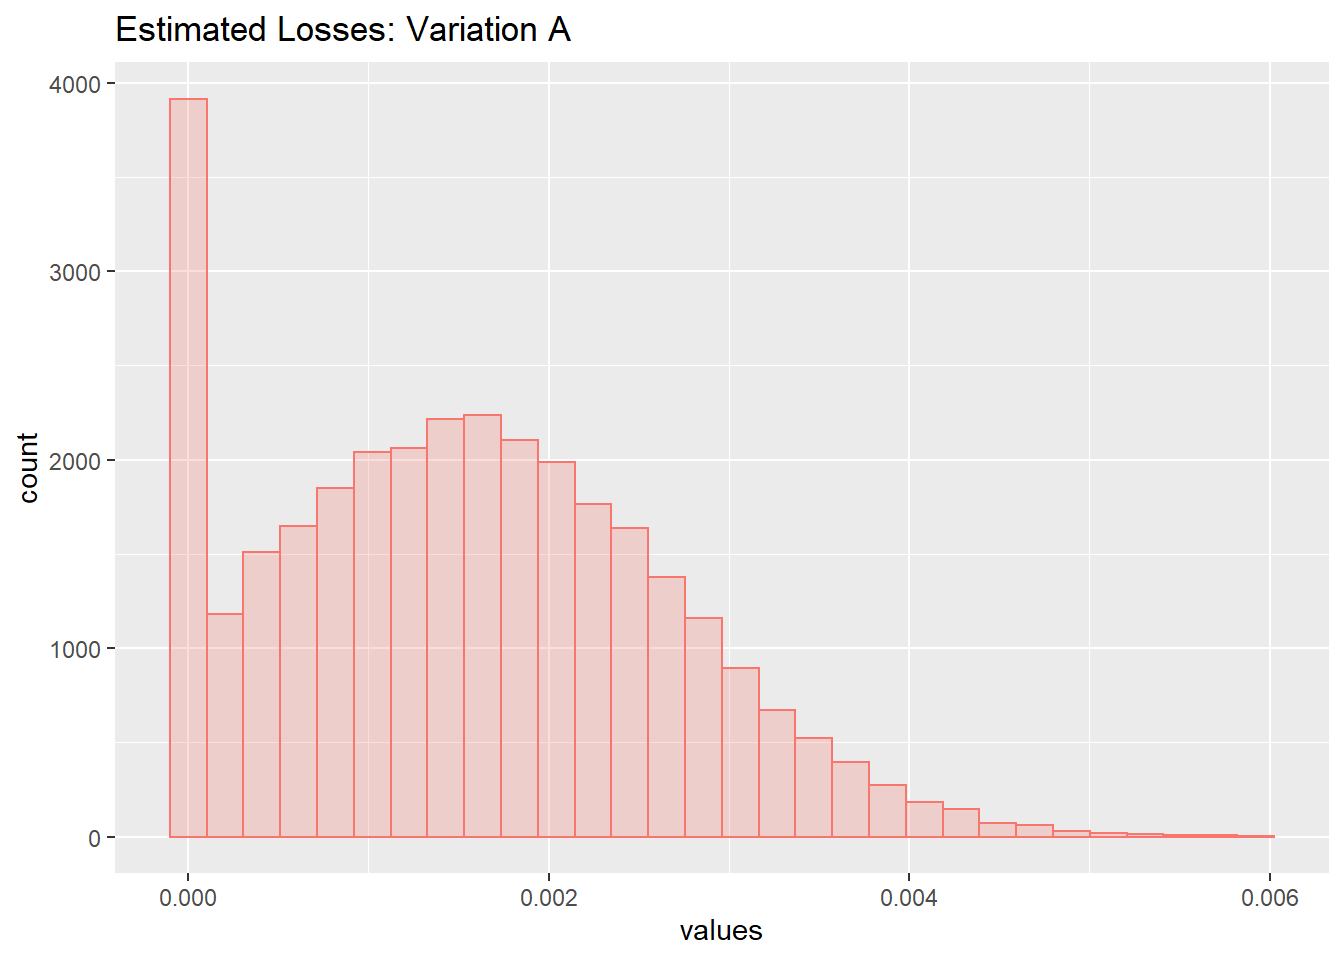
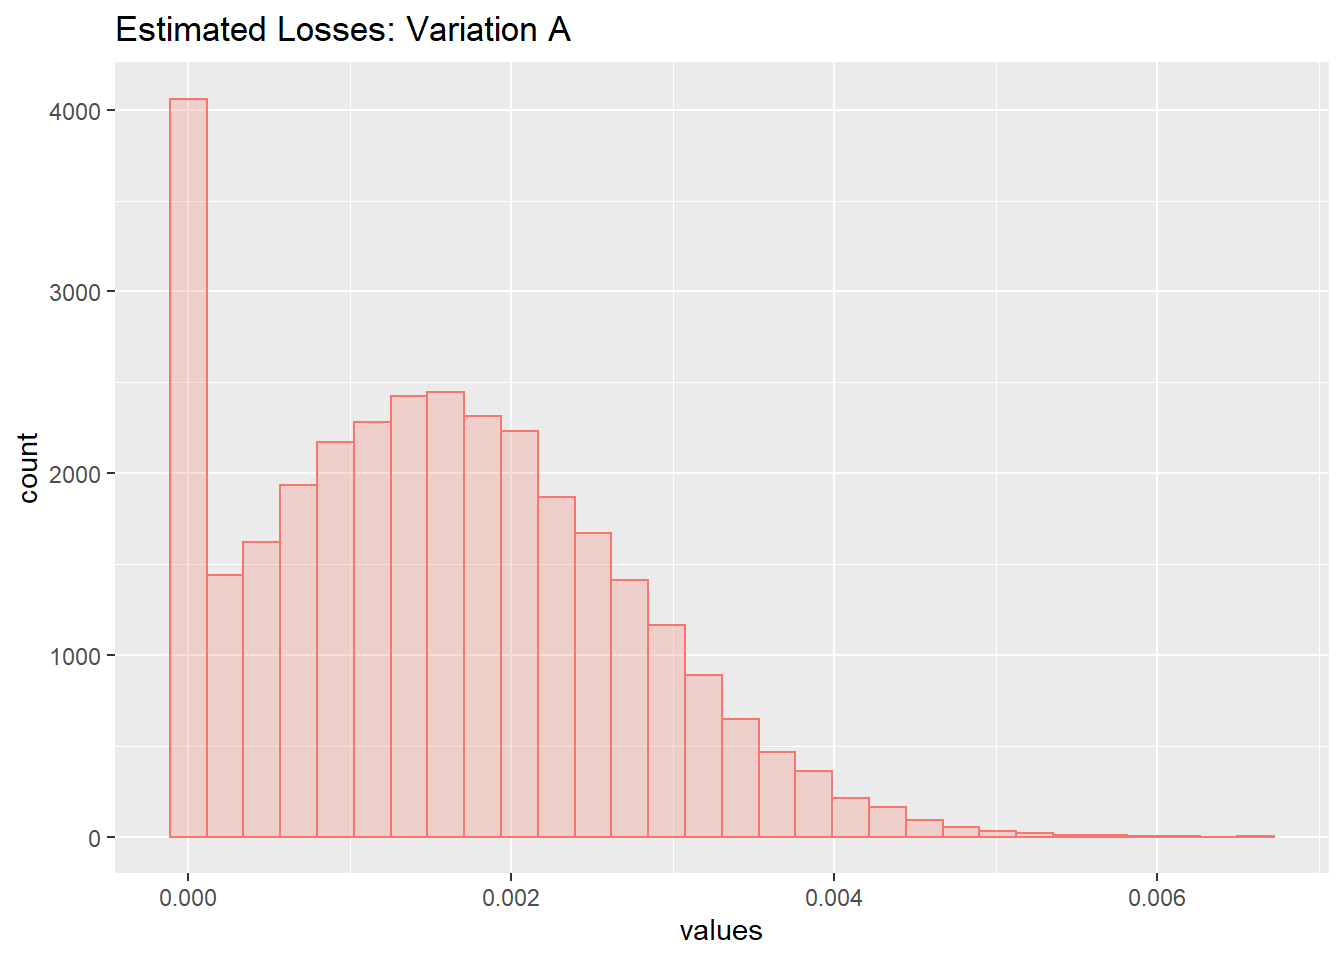
updating homepage with description

diff --git a/docs/tutorial.html b/docs/tutorial.html
@@ -385,16 +385,11 @@ end.fit &lt;- sampling(ABmodel,
 ## post-warmup draws per chain=8000, total post-warmup draws=32000.
 ## 
 ##              mean se_mean   sd     2.5%      25%      50%      75%    97.5% n_eff Rhat
-## theta[1]     0.12    0.00 0.01     0.11     0.12     0.12     0.12     0.13 31925    1
-## theta[2]     0.13    0.00 0.01     0.11     0.12     0.13     0.13     0.14 29965    1
-## lp__     -2157.93    0.01 0.99 -2160.61 -2158.31 -2157.63 -2157.23 -2156.97 13876    1
+## theta[1]     0.12    0.00 0.01     0.11     0.12     0.12     0.12     0.13 27554    1
+## theta[2]     0.13    0.00 0.01     0.11     0.12     0.13     0.13     0.14 26001    1
+## lp__     -2157.94    0.01 1.00 -2160.64 -2158.31 -2157.63 -2157.23 -2156.97 14419    1
 ## 
-## Samples were drawn using NUTS(diag_e) at Tue Dec 31 12:12:16 2019.
-## theta[1]     0.12    0.00 0.01     0.11     0.12     0.12     0.12     0.13 28063    1
-## theta[2]     0.13    0.00 0.01     0.11     0.12     0.13     0.13     0.14 28722    1
-## lp__     -2157.95    0.01 0.99 -2160.59 -2158.35 -2157.64 -2157.23 -2156.97 14451    1
-## 
-## Samples were drawn using NUTS(diag_e) at Tue Dec 31 12:00:31 2019.
+## Samples were drawn using NUTS(diag_e) at Tue Dec 31 12:23:23 2019.
 ## For each parameter, n_eff is a crude measure of effective sample size,
 ## and Rhat is the potential scale reduction factor on split chains (at 
 ## convergence, Rhat=1).</code></pre>
@@ -407,8 +402,7 @@ end.fit &lt;- sampling(ABmodel,
 <pre class="r"><code>posterior.mat &lt;- as.matrix(end.fit)
 # Find the percent of click rates that are larger in the control group 
 sum(posterior.mat[,1]&gt;posterior.mat[,2])/nrow(posterior.mat)</code></pre>
-<pre><code>## [1] 0.106625</code></pre>
-<pre><code>## [1] 0.1061562</code></pre>
+<pre><code>## [1] 0.1075625</code></pre>
 <p>We see that if we choose to switch from design A to design B, there is about an 11% chance that we are wrong. This might be too high of a risk for many people to consider switching, but it’s not the end of the story. The problem with quantifying the switching risk in this manner is that it treats all differences in the group click rates as equal. For example, suppose that in reality <span class="math inline">\(\theta_A-\theta_B = 0.0001\)</span> (i.e. theres a very small difference in favor of variation A). If we choose to adopt variation B based on the previous analysis, the mistake we make is not really a problem. On the other hand, suppose that <span class="math inline">\(\theta_A-\theta_B = 0.1\)</span>. Choosing to switch to variation B is a far more severe mistake in this case, because group A was significantly more favorable in reality. A class of functions called <em>loss functions</em> are used to assign penalties to increasing larger errors. If you’ve ever fit a regression model to data using least squares, you’ve fit a line of best fit by minimizing a quadratic loss function. The loss function I’ll use comes from Stucchio (2015). The loss function for staying with variation A is <span class="math display">\[L(\theta_A, \theta_B, A) = \max(\theta_B-\theta_A, 0).\]</span> Similarly, if we choose variation B, the loss function is <span class="math display">\[L(\theta_A, \theta_B, B) = \max(\theta_A-\theta_B, 0).\]</span> Along with having some nice properties (I’ll include Stucchio’s paper in the repository), this loss functino has the advantage that the output values are on the same scale as the click probabilities. That is, the loss function tells us the percentage of users that we would lose <em>given that we made the wrong decision.</em> We can code this loss function into R and then apply it to the matrix of posterior observations we defined above</p>
 <pre class="r"><code>lossA &lt;- function(theta.vec){
   if (theta.vec[2]-theta.vec[1] &gt; 0) return(theta.vec[2]-theta.vec[1])
@@ -424,12 +418,9 @@ loss.dist.A &lt;- apply(posterior.mat[,1:2], 1, lossA)</code></pre>
 <p><img src="tutorial_files/figure-html/unnamed-chunk-10-1.png" width="50%" /><img src="tutorial_files/figure-html/unnamed-chunk-10-2.png" width="50%" /><img src="tutorial_files/figure-html/unnamed-chunk-10-3.png" width="50%" /></p>
 <p>We can also calculate the expected loss for each variation.</p>
 <pre class="r"><code>mean(loss.dist.A)</code></pre>
-<pre><code>## [1] 0.001543168</code></pre>
+<pre><code>## [1] 0.001547685</code></pre>
 <pre class="r"><code>mean(loss.dist.B)</code></pre>
-<pre><code>## [1] 6.260651e-05</code></pre>
-<pre><code>## [1] 0.00154837</code></pre>
-<pre class="r"><code>mean(loss.dist.B)</code></pre>
-<pre><code>## [1] 6.033403e-05</code></pre>
+<pre><code>## [1] 6.098258e-05</code></pre>
 <p>Variation B is the clear winner here. Even though there’s an 11% chance that we’re making a mistake by switching to group B, the expected loss is so small that making such a mistake isn’t really an issue. Another great advantage of this technique is that we can set an expected loss threshold before we conduct the A/B test. The test is then run until one of the two groups falls below the threshold. This ensures that we collect enough data to make an accurate and informed decision, but also ensures that we don’t waste time and resources. Finally, we’ll conclude that the e-commerce website is better off if they change the color of the “Add to Cart” button.</p>
 </div>
 <div id="conclusion" class="section level1">
